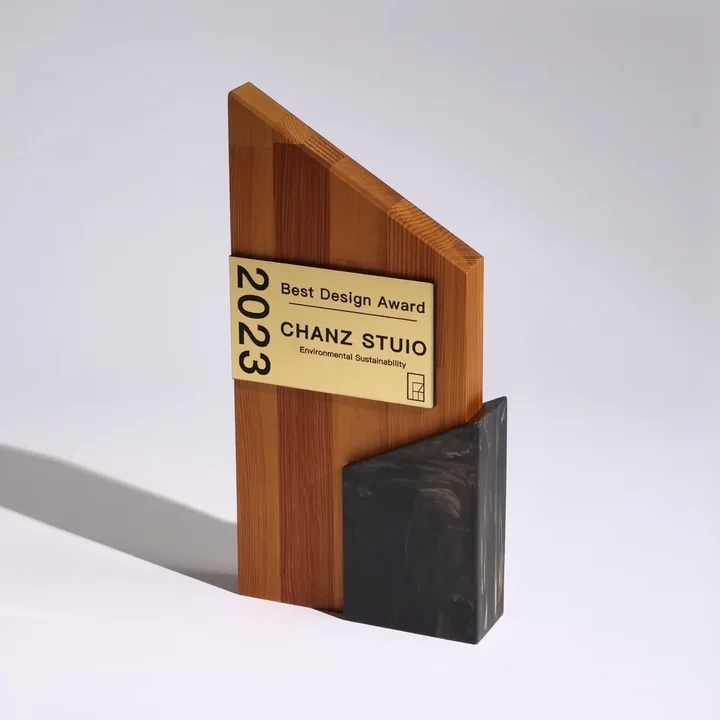
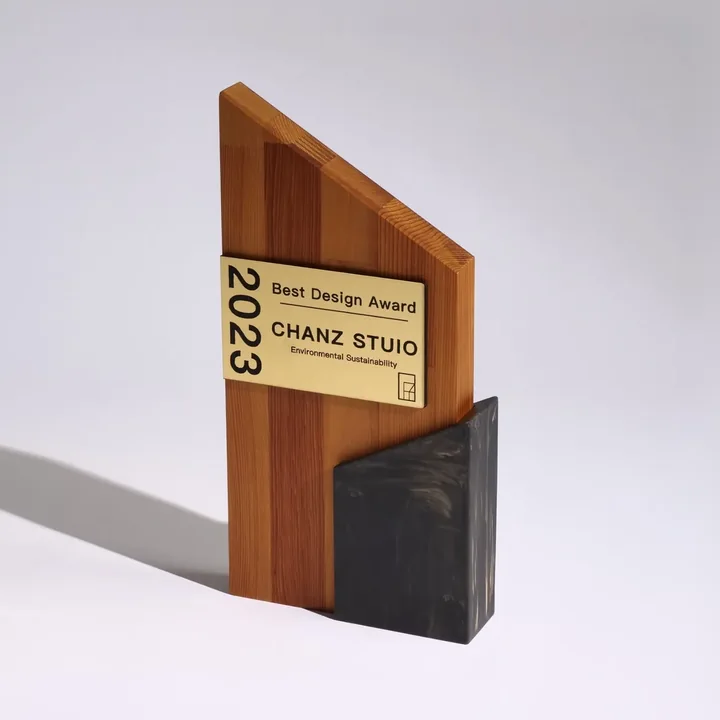
Frame every classic photo for its frame: hero D and previews, grid, 公版 page (v1.2.5)

diff --git a/src/components/Home.jsx b/src/components/Home.jsx
@@ -1,4 +1,5 @@
 import React, { useCallback, useEffect, useRef, useState } from 'react';
+import { classicPhotos } from './site/classicPhotos.js';
 import { small, third } from './site/responsive.js';
 import models from '../data/models.json';
 import SiteHeader from './site/SiteHeader.jsx';
@@ -60,18 +61,16 @@ const img = id => '/content/images/' + id + '.webp';
 // cover` then always fits it by height, the piece keeps its size and place, and only plain backdrop comes and goes at
 // the sides. `phone` is the square framing for the square stage on phones (a <picture> source).
 const heroSlides = [
-  { id: 'D', src: img('0ec85ee98fb1103204'), haze: '/assets/hero-haze-D-trio.webp', position: '41% 58%', line: '大理石邊料研磨再生，白、黑、綠三色。', alt: 'D 款 DELTA 公版獎盃，白、黑、綠三色再生大理石並列' },
-  { id: 'E', src: '/assets/hero-E-wide.webp', phone: '/assets/hero-E-square.webp', wide: true, haze: '/assets/hero-haze-E.webp', position: '50% 50%', line: '鋁片折面與再生大理石，設計師聯名款。', alt: 'E 款 EXCEED 公版獎盃 The way to PEAK，金與銀兩色並列' },
-  { id: 'B', src: '/assets/hero-B-wide.webp', phone: '/assets/hero-B-square.webp', wide: true, haze: '/assets/hero-haze-B.webp', position: '50% 50%', line: '熱處理北美黃檜，嵌入再生大理石。', alt: 'B 款 BOND 公版獎盃，木質盃身與黑色再生大理石構件' }
+  { id: 'D', haze: '/assets/hero-haze-D-trio.webp', line: '大理石邊料研磨再生，白、黑、綠三色。', alt: 'D 款 DELTA 公版獎盃，白、黑、綠三色再生大理石並列' },
+  { id: 'E', haze: '/assets/hero-haze-E.webp', line: '鋁片折面與再生大理石，設計師聯名款。', alt: 'E 款 EXCEED 公版獎盃 The way to PEAK，金與銀兩色並列' },
+  { id: 'B', haze: '/assets/hero-haze-B.webp', line: '熱處理北美黃檜，嵌入再生大理石。', alt: 'B 款 BOND 公版獎盃，木質盃身與黑色再生大理石構件' }
 ];
 const heroPicks = offered;
 // v70 (owner, 2026-11-17): pointing at (or focusing) one of the A to E cards shows that model in the hero: its name,
 // line, size, price, studio button and photo. A and C are not slides, so they bring their catalogue photo and a line
 // written from models.json's materials. The loop waits meanwhile and resumes when the pointer leaves.
 const peekLines = { A: '北美黃檜或木橫擔，立於再生大理石底座。', C: '熱處理北美黃檜，立於再生大理石底座。' };
-// Square cards under the hero: B and E framed around the piece (see tallPhoto below).
-const pickPhoto = { B: '/assets/classic-B-square.webp', E: '/assets/classic-E-square.webp' };
-const heroExtras = heroPicks.filter(id => !heroSlides.some(s => s.id === id)).map(id => ({ id, src: `/assets/catalogue-${id}.webp`, line: peekLines[id], alt: `${id} 款 ${classicNames[id]} 公版獎盃實品` }));
+const heroExtras = heroPicks.filter(id => !heroSlides.some(s => s.id === id)).map(id => ({ id, line: peekLines[id], alt: `${id} 款 ${classicNames[id]} 公版獎盃實品` }));
 const sizeOf = m => Array.isArray(m.dimensions_mm) ? `高 ${Math.max(...m.dimensions_mm) / 10} cm` : '';
 function Hero({ onPreview }) {
   const [active, setActive] = useState(0), [peek, setPeek] = useState(null), [paused, setPaused] = useState(false), [away, setAway] = useState(false), hero = useRef(null);
@@ -99,17 +98,14 @@ function Hero({ onPreview }) {
       </div>
       <div className="rv-hero-picks">
         <p>A 至 E 款<span>點選款式，開啟銘版排版工作室</span></p>
-        <ul onMouseLeave={() => setPeek(null)} onBlur={e => { if (!e.currentTarget.contains(e.relatedTarget)) setPeek(null) }}>{heroPicks.map(id => <li key={id}><button className={id === slide.id ? 'is-on' : undefined} onMouseEnter={() => setPeek(id)} onFocus={() => setPeek(id)} onClick={() => onPreview(id)} aria-label={`開始 ${id} 款 ${classicNames[id]} 排版（另開新視窗）`}><img src={pickPhoto[id] || `/assets/catalogue-${id}.webp`} alt="" width={pickPhoto[id] ? 720 : 1200} height={pickPhoto[id] ? 720 : 900} loading="lazy" /><span aria-hidden="true"><b>{id}</b>{classicNames[id].slice(1)}</span></button></li>)}</ul>
+        <ul onMouseLeave={() => setPeek(null)} onBlur={e => { if (!e.currentTarget.contains(e.relatedTarget)) setPeek(null) }}>{heroPicks.map(id => <li key={id}><button className={id === slide.id ? 'is-on' : undefined} onMouseEnter={() => setPeek(id)} onFocus={() => setPeek(id)} onClick={() => onPreview(id)} aria-label={`開始 ${id} 款 ${classicNames[id]} 排版（另開新視窗）`}><img src={classicPhotos[id].square} alt="" width="720" height="720" loading="lazy" /><span aria-hidden="true"><b>{id}</b>{classicNames[id].slice(1)}</span></button></li>)}</ul>
       </div>
     </div>
     <div className="rv-hero-stage">
-      {heroSlides.map((s, i) => {
-        const photo = <img key={s.id} className={`rv-hero-photo${s.id === slide.id ? ' is-active' : ''}`} src={s.src}
-          {...(i === 0 ? { srcSet: `${import.meta.env.BASE_URL}assets/hero-d-720.webp 720w, ${s.src} 1440w`, sizes: '(max-width: 760px) 100vw, 65vw' } : {})}
-          alt={s.alt} aria-hidden={s.id !== slide.id || undefined} width={s.wide ? 2112 : 1440} height={s.wide ? 960 : 1080} style={{ objectPosition: s.position }} fetchPriority={i ? 'low' : 'high'} loading={i ? 'lazy' : undefined} />;
-        return s.phone ? <picture key={s.id} className="rv-hero-pic"><source media="(max-width: 760px)" srcSet={s.phone} />{photo}</picture> : photo;
-      })}
-      {heroExtras.map(s => <img key={s.id} className={`rv-hero-photo is-extra${s.id === slide.id ? ' is-active' : ''}`} src={s.src} alt={s.alt} aria-hidden={s.id !== slide.id || undefined} width="1200" height="900" loading="lazy" />)}
+      {[...heroSlides, ...heroExtras].map((s, i) => <picture key={s.id} className="rv-hero-pic">
+        <source media="(max-width: 760px)" srcSet={classicPhotos[s.id].heroPhone} />
+        <img className={`rv-hero-photo${i >= heroSlides.length ? ' is-extra' : ''}${s.id === slide.id ? ' is-active' : ''}`} src={classicPhotos[s.id].hero} alt={s.alt} aria-hidden={s.id !== slide.id || undefined} width="2112" height="960" fetchPriority={i ? 'low' : 'high'} loading={i ? 'lazy' : undefined} />
+      </picture>)}
       <div className="rv-hero-tabs" role="group" aria-label="主打公版獎盃">{heroSlides.map((s, i) => <button key={s.id} aria-pressed={i === active} onClick={() => { setPeek(null); setActive(i) }}><span className="rv-hero-bar">{i === active && <i key={active} onAnimationEnd={next} />}</span><strong>{s.id}</strong><span>{classicNames[s.id].slice(1)}</span></button>)}<button className="rv-hero-toggle" onClick={() => setPaused(p => !p)} aria-label={paused ? '播放輪播' : '暫停輪播'}><svg viewBox="0 0 16 16" aria-hidden="true"><path d={paused ? 'M5 3.5v9l7.5-4.5z' : 'M5 3.5v9M11 3.5v9'} fill={paused ? 'currentColor' : 'none'} stroke="currentColor" strokeWidth="1.6" strokeLinecap="round" strokeLinejoin="round" /></svg></button></div>
     </div>
   </section>;
@@ -289,7 +285,7 @@ const featured = ['E', 'D'];
 // 4:3; in the tall desktop cells and the square hero cards a centre crop left B and E off centre and D against the
 // sides. These are the same photos framed around the piece (tools/classic-tiles.py). The tall ones show only in the
 // desktop grid (CSS swaps the two frames); smaller screens keep the 4:3 photo, which they show whole.
-const tallPhoto = { B: '/assets/classic-B-tall.webp', D: '/assets/classic-D-tall.webp', E: '/assets/classic-E-tall.webp' };
+// (v1.2.5: every model, see site/classicPhotos.js; C's desktop cell is wide, so it keeps the 4:3 framing there.)
 // V48 (owner, 2026-11-08): each standard model has an English name that starts with its letter. On home the
 // card shows only the photo and that name, grown out of the letter tab; name, spec and the start button are gone.
 // The letter stays in its square; the rest of the name rises in letter by letter as the card comes into
@@ -317,7 +313,7 @@ export default function Home({ onPreview, section }) {
       <section className="rv-section rv-gutter" id="classic" aria-labelledby="rv-classic-title">
         <SectionHead index="01" label="公版獎盃" en="Classic" id="rv-classic-title" title={<>為榮耀，<br />找到合適的樣貌。</>} />
         <div className="rv-products">{models.filter(m => offered.includes(m.id)).sort((a, b) => featured.indexOf(b.id) - featured.indexOf(a.id)).map(m => <article className={`rv-product${featured.includes(m.id) ? ' is-feature' : m.id === 'C' ? ' is-wide' : ''}`} key={m.id} data-reveal>
-          <button className="rv-product-photo" onClick={() => onPreview(m.id)} aria-label={`${m.id} 款 ${classicNames[m.id]}，開始銘版排版`}><Frame className={tallPhoto[m.id] ? 'is-wide-only' : ''} src={`/assets/catalogue-${m.id}.webp`} alt={`${m.id} 款 ${m.name}實品`} width="1200" height="900" />{tallPhoto[m.id] && <Frame className="is-tall-only" src={tallPhoto[m.id]} alt={`${m.id} 款 ${m.name}實品`} width="960" height="1200" />}<ClassicTab id={m.id} /></button>
+          <button className="rv-product-photo" onClick={() => onPreview(m.id)} aria-label={`${m.id} 款 ${classicNames[m.id]}，開始銘版排版`}><Frame className={m.id === 'C' ? '' : 'is-wide-only'} src={classicPhotos[m.id].wide} alt={`${m.id} 款 ${m.name}實品`} width="1200" height="900" />{m.id !== 'C' && <Frame className="is-tall-only" src={classicPhotos[m.id].tall} alt={`${m.id} 款 ${m.name}實品`} width="960" height="1200" />}<ClassicTab id={m.id} /></button>
         </article>)}</div>
       </section>
 

diff --git a/src/content/landings.jsx b/src/content/landings.jsx
@@ -1,4 +1,5 @@
 import {casePreview} from './casePreviews.js';
+import {classicPhotos} from '../components/site/classicPhotos.js';
 import {small,half} from '../components/site/responsive.js';
 import React,{useEffect,useRef,useState} from 'react';
 import cases from '../data/brand-cases.json';
@@ -42,7 +43,7 @@ function GuideBand({id='pg-band-title',kicker,en,title,items,compact}){
   <div className="pg-flow-grid folio-gutter">
    <div className="pg-flow-stage">
     {items.map((s,i)=>s.mosaic
-     ?<div key={s.title} className={`pg-flow-shot pg-flow-mosaic${i===active?' is-on':''}`} role="img" aria-label={s.alt} aria-hidden={i!==active||undefined}>{flowModels.map(m=><span key={m}><img src={`/assets/catalogue-${m}.webp`} alt="" width="1200" height="900" loading="lazy"/><em>{m}</em></span>)}</div>
+     ?<div key={s.title} className={`pg-flow-shot pg-flow-mosaic${i===active?' is-on':''}`} role="img" aria-label={s.alt} aria-hidden={i!==active||undefined}>{flowModels.map(m=><span key={m}><img src={classicPhotos[m].wide} alt="" width="1200" height="900" loading="lazy"/><em>{m}</em></span>)}</div>
      :<img key={s.title} className={`pg-flow-shot${i===active?' is-on':''}`} src={s.src} {...small({src:s.src,width:s.width||1440},half)} alt={i===active?s.alt:''} aria-hidden={i!==active||undefined} width={s.width||1440} height={s.height||1080} loading="lazy" style={{objectPosition:s.position||'50% 50%'}}/>)}
     <p className="pg-flow-caption" aria-hidden="true"><b>{numbers[active]}</b>/ {total}<span>{items[active].caption||items[active].title}</span></p>
    </div>
@@ -55,7 +56,7 @@ function GuideBand({id='pg-band-title',kicker,en,title,items,compact}){
      </button>
      <div className="pg-flow-body"><div>
       {s.line?<p>{s.line}</p>:null}
-      {s.mosaic?<ul className="pg-flow-picks">{flowModels.map(m=><li key={m}><a href={`#/preview/${m}`} {...studioTab} aria-label={`開始 ${m} 款排版`}><img src={`/assets/product-thumb-${m}.webp`} alt="" width="360" height="270" loading="lazy"/><span>{m}</span></a></li>)}</ul>:null}
+      {s.mosaic?<ul className="pg-flow-picks">{flowModels.map(m=><li key={m}><a href={`#/preview/${m}`} {...studioTab} aria-label={`開始 ${m} 款排版`}><img src={classicPhotos[m].square} alt="" width="720" height="720" loading="lazy"/><span>{m}</span></a></li>)}</ul>:null}
       {s.terms?<dl className="pg-flow-terms">{s.terms.map(([k,v],j)=><div key={j} className={k?undefined:'is-more'}><dt>{k}</dt><dd>{v}</dd></div>)}</dl>:null}
       {s.tags||s.link?<p className="pg-flow-foot">{s.tags?<span className="pg-flow-tags">{s.tags.join(' / ')}</span>:null}{s.link?<a href={s.link[1]}>{s.link[0]}<span aria-hidden="true"> →</span></a>:null}</p>:null}
      </div></div>

diff --git a/src/components/site/classicPhotos.js b/src/components/site/classicPhotos.js
@@ -1,0 +1,17 @@
+// The classic trophies framed for each frame shape the site uses (v1.2.5), made by tools/classic-tiles.py.
+// Owner rule (2026-11-25): the piece sits in the middle of its frame, clear of the edges, never shifted or cut.
+// The catalogue photos are 4:3 with the piece wherever the photographer put it, so a frame of another shape cropped
+// it off centre or against the edge. Pick the entry that matches the frame instead of cropping a 4:3 photo:
+//   tall    4:5   tall cells (desktop Classic grid)
+//   square  1:1   square or round frames (hero cards, the round picks)
+//   wide    4:3   wide frames (tablet and phone grid, C's wide cell, the mosaic)
+//   hero    2.2:1 the home hero stage on desktops (always fitted by height)   heroPhone  1:1 the same on phones
+// The paths are written out in full on purpose: the build renames whole literal addresses to follow the file's
+// content (tools/images.mjs); a path assembled from pieces would be skipped.
+export const classicPhotos = {
+  A: { tall: '/assets/classic-A-tall.webp', square: '/assets/classic-A-square.webp', wide: '/assets/classic-A-wide.webp', hero: '/assets/hero-A-wide.webp', heroPhone: '/assets/hero-A-square.webp' },
+  B: { tall: '/assets/classic-B-tall.webp', square: '/assets/classic-B-square.webp', wide: '/assets/classic-B-wide.webp', hero: '/assets/hero-B-wide.webp', heroPhone: '/assets/hero-B-square.webp' },
+  C: { tall: '/assets/classic-C-tall.webp', square: '/assets/classic-C-square.webp', wide: '/assets/classic-C-wide.webp', hero: '/assets/hero-C-wide.webp', heroPhone: '/assets/hero-C-square.webp' },
+  D: { tall: '/assets/classic-D-tall.webp', square: '/assets/classic-D-square.webp', wide: '/assets/classic-D-wide.webp', hero: '/assets/hero-D-wide.webp', heroPhone: '/assets/hero-D-square.webp' },
+  E: { tall: '/assets/classic-E-tall.webp', square: '/assets/classic-E-square.webp', wide: '/assets/classic-E-wide.webp', hero: '/assets/hero-E-wide.webp', heroPhone: '/assets/hero-E-square.webp' }
+};

diff --git a/index.html b/index.html
@@ -49,14 +49,16 @@
     <!-- The home hero photo is the largest paint; fetch it alongside the script, on the home route only. -->
     <script>
       if (location.pathname === '%BASE_URL%' && location.hash.length < 3) {
-        const photo = document.createElement('link');
-        photo.rel = 'preload';
-        photo.as = 'image';
-        photo.href = '%BASE_URL%content/images/0ec85ee98fb1103204.webp';
-        photo.imageSrcset = '%BASE_URL%assets/hero-d-720.webp 720w, ' + photo.href + ' 1440w';
-        photo.imageSizes = '(max-width: 760px) 100vw, 65vw';
-        photo.fetchPriority = 'high';
-        document.head.appendChild(photo);
+        // v1.2.5: the stage shows the wide framing on desktops and the square one on phones (Home.jsx <picture>).
+        [['%BASE_URL%assets/hero-D-wide.webp', '(min-width: 761px)'], ['%BASE_URL%assets/hero-D-square.webp', '(max-width: 760px)']].forEach(function (p) {
+          const photo = document.createElement('link');
+          photo.rel = 'preload';
+          photo.as = 'image';
+          photo.href = p[0];
+          photo.media = p[1];
+          photo.fetchPriority = 'high';
+          document.head.appendChild(photo);
+        });
       }
     </script>
   </head>

diff --git a/src/version.js b/src/version.js
@@ -3,7 +3,7 @@
 //                patch (1.0.1) for small fixes and copy, minor (1.1.0) for new features or sections, major (2.0.0) for a redesign.
 //   build.date   the date the site was last built (Taipei), filled in by vite.config.js. Every change, including a save
 //                from the case admin, rebuilds the site, so this is the date of the latest change.
-export const siteVersion = '1.2.4';
+export const siteVersion = '1.2.5';
 /* global __BUILD__ */
 export const build = typeof __BUILD__ === 'undefined' ? {date: ''} : __BUILD__;
 export const versionLabel = ['v' + siteVersion, build.date].filter(Boolean).join(' · ');

diff --git a/tools/classic-tiles.py b/tools/classic-tiles.py
@@ -13,24 +13,28 @@ from PIL import Image, ImageFilter
 root = Path(__file__).resolve().parents[1] / 'public'
 #        source photo                              piece box: x0, y0, x1, y1
 photos = {
-    'B': ('assets/catalogue-B.webp',               (.47, .08, .77, .93)),
+    'A': ('assets/catalogue-A.webp',                (.42, .10, .58, .89)),
+    'B': ('content/images/e8b500fc458fa120e4.webp', (.47, .08, .79, .93)),
+    'C': ('assets/catalogue-C.webp',                (.275, .18, .71, .91)),
     'D': ('content/images/0ec85ee98fb1103204.webp', (.22, .13, .785, .88)),
     'E': ('assets/hero-wide.webp',                  (.205, .31, .685, .87)),
-    'Bh': ('content/images/e8b500fc458fa120e4.webp', (.47, .08, .79, .93)),   # the same B shot, larger file (hero)
 }
-#        output name            photo  width:height  fill   size
-jobs = [('classic-B-tall.webp',  'B', 4 / 5, .76, (960, 1200)),
-        ('classic-D-tall.webp',  'D', 4 / 5, .76, (960, 1200)),
-        ('classic-E-tall.webp',  'E', 4 / 5, .66, (960, 1200)),
-        ('classic-B-square.webp', 'B', 1.0, .78, (720, 720)),
-        ('classic-E-square.webp', 'E', 1.0, .70, (720, 720)),
-        # Home hero stage (v1.2.4). Its shape changes with the window (about 1:1 to 2:1). A very wide canvas is always
-        # fitted by HEIGHT, so the piece keeps the same size, stays whole and stays in the middle on every desktop;
-        # only plain background is cut from, or shown at, the sides. Phones (a square stage) get the square ones.
-        ('hero-B-wide.webp',   'Bh', 2.2, .74, (2112, 960)),
-        ('hero-E-wide.webp',   'E',  2.2, .62, (2112, 960)),
-        ('hero-B-square.webp', 'Bh', 1.0, .74, (1080, 1080)),
-        ('hero-E-square.webp', 'E',  1.0, .68, (1080, 1080))]
+# Every model in every frame shape the site uses (v1.2.5: all five, so no frame is left to a plain centre crop).
+#   tall    4:5   desktop Classic grid cells
+#   square  1:1   hero A to E cards, the round picks on the 公版 page
+#   wide    4:3   Classic grid on tablets and phones, C's wide desktop cell, the 公版 mosaic
+#   hero    2.2:1 home hero stage on desktops. The stage changes shape with the window (about 1:1 to 2:1); a canvas
+#                 this wide is always fitted by HEIGHT, so the piece keeps its size and place and only plain backdrop
+#                 is cut from, or shown at, the sides.
+#   hero-square   home hero stage on phones (a square stage)
+#            shape          width:height  size          fill of the tighter side, per model
+shapes = [('tall',        4 / 5, (960, 1200),  {'A': .78, 'B': .76, 'C': .78, 'D': .76, 'E': .66}),
+          ('square',      1.0,   (720, 720),   {'A': .78, 'B': .78, 'C': .72, 'D': .76, 'E': .70}),
+          ('wide',        4 / 3, (1200, 900),  {'A': .74, 'B': .74, 'C': .64, 'D': .70, 'E': .62}),
+          ('hero',        2.2,   (2112, 960),  {'A': .74, 'B': .74, 'C': .64, 'D': .72, 'E': .62}),
+          ('hero-square', 1.0,   (1080, 1080), {'A': .76, 'B': .74, 'C': .68, 'D': .76, 'E': .68})]
+jobs = [((f'hero-{key}-wide.webp' if shape == 'hero' else f'hero-{key}-square.webp' if shape == 'hero-square' else f'classic-{key}-{shape}.webp'), key, ratio, fills[key], size)
+        for shape, ratio, size, fills in shapes for key in 'ABCDE']
 
 def extend(im, left, top, right, bottom):
     """The photo on a larger canvas; each new band continues the photo's edge and is blurred."""

diff --git a/AGENTS.md b/AGENTS.md
@@ -958,3 +958,19 @@ Both are done by the build (tools/images.mjs, called from tools/prerender.mjs be
   backdrop gradient and showed a step on E) and fades it into a blur along the seam farther out, so a shadow that
   crossed the photo's edge (B) dissolves instead of running on as a stripe.
 - The D slide is unchanged (not asked); on stages wider than about 1.8:1 its three trophies are cut top and bottom.
+
+## Every classic photo framed for its frame (v1.2.5, 2026-11-25, by request: "handle wherever this can happen")
+- The owner's rule (v1.2.3) now holds for all five models in every place they show: src/components/site/classicPhotos.js
+  lists, per model, the photo framed around the piece for each frame shape (tall 4:5, square, wide 4:3, hero 2.2:1,
+  heroPhone square), all made by tools/classic-tiles.py (25 files, 0.8 MB). Use the entry that matches the frame;
+  do not centre-crop a 4:3 catalogue photo into another shape.
+  - Home hero stage: D, E, B slides and the A and C previews all use `hero` (+ `heroPhone` on phones via <picture>).
+    index.html preloads the D slide in the shape the screen will show (two preload links with `media`).
+    The old hero-d-720.webp and per-slide object-position are no longer used.
+  - Home hero cards: `square` for all five. Classic grid: `tall` on desktop for A, B, D, E; `wide` for C's wide cell
+    and for every model on tablets and phones.
+  - 公版 page: the step-01 mosaic uses `wide`, the round picks use `square` (they used product-thumb crops).
+  - Not changed: the plaque studio's model cards (protected), the FAQ's 72px thumbnails and the unused MaterialHero.
+- Checked on screenshots: hero D/E/B and the A/C previews at 1440, 1900 and 2560 wide and on a phone; the Classic grid
+  at 1440, 1024 and 390; the 公版 mosaic and picks at 1440 and 390. A new classic model or photo: add its box to the
+  script, run it, add the entry to classicPhotos.js.
